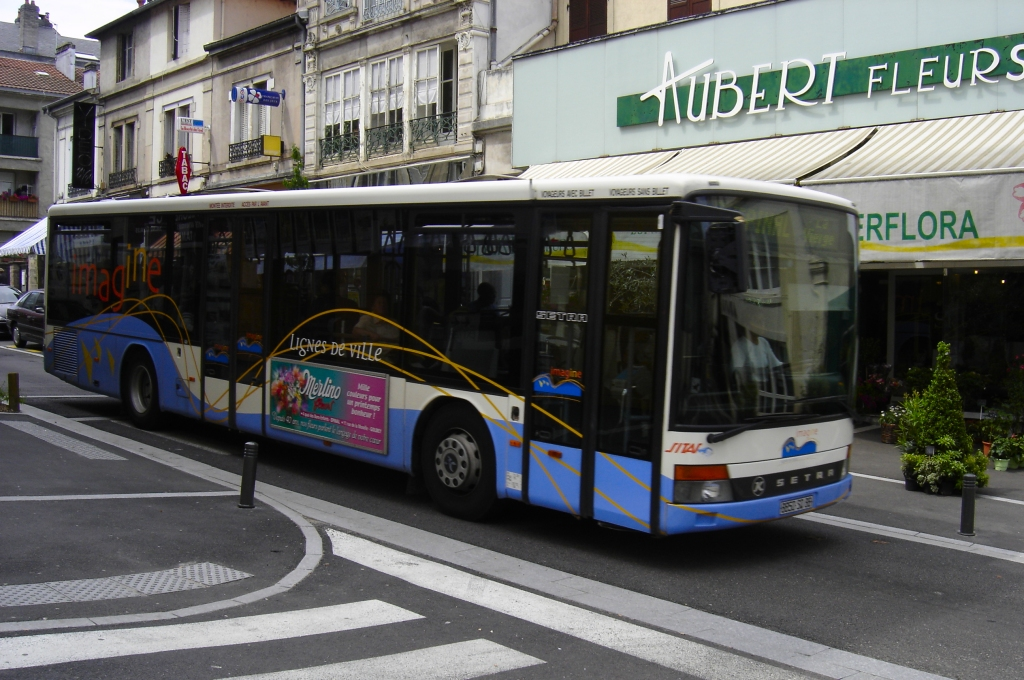
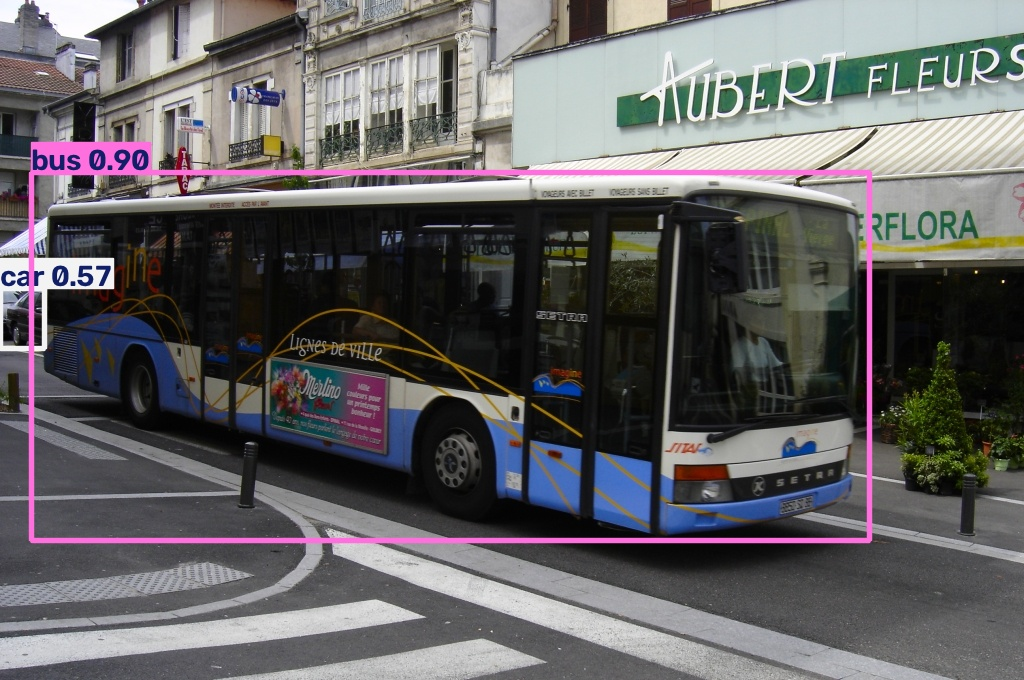
deleting test images, and real cases, with car analys squares

Changed region(s): [[0.0, 0.1853, 0.875, 0.8029]]

diff --git a/app/main.py b/app/main.py
@@ -49,6 +49,8 @@ async def process_image(
     #ML inference    
     try:
         detection_result = detector.detect_vehicles(str(file_location))
+        
+        detector.save_annotated_image(detection_result, str(file_location))
     except Exception as e:
         raise HTTPException(status_code=500, detail=f"Error of ML-interface: {str(e)}")
     
